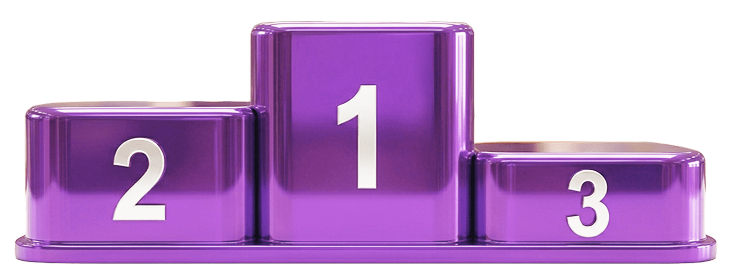
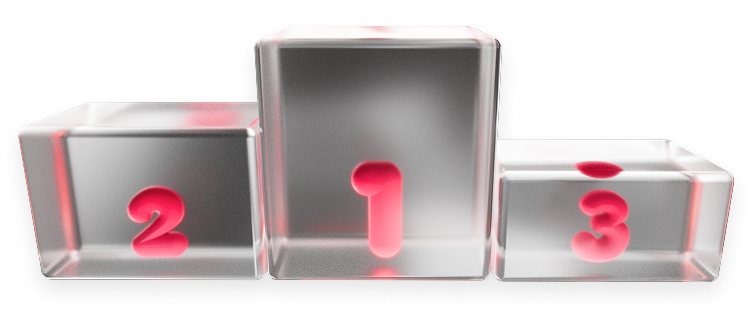
fix: ui bugs

diff --git a/src/views/home/HomeIndexView.vue b/src/views/home/HomeIndexView.vue
@@ -258,17 +258,20 @@ const noticeTrackStyle = computed<CSSProperties>(() => ({
   '--notice-distance': `${noticeDistancePx.value}px`,
   '--notice-duration': `${noticeDurationSec.value}s`,
 }))
-const clubNameText = computed(() => toSafeString(currentClub.value?.club_name) || '俱乐部')
+const clubNameText = computed(
+  () =>
+    toSafeString(currentClub.value?.club_name)
+      .replace(/[(（]\s*disband\s*[)）]?/gi, '')
+      .trim() || '俱乐部',
+)
 
 const clubGoldText = computed(() => toSafeNumber(currentClub.value?.user_gold) / 100)
 const pokerTablesText = computed(() => `${homeRoomStats.value.poker.tables}`)
 const pokerPlayersText = computed(() => `${homeRoomStats.value.poker.players}`)
 // const miniGamePlayersText = computed(() => `${homeRoomStats.value.miniGame.players}`)
-const miniGamePlayersText = 0
-// const mahjongTablesText = computed(() => `${homeRoomStats.value.mahjong.tables}`)
-const mahjongTablesText = 0
+const miniGamePlayersText = 632
 // const mahjongPlayersText = computed(() => `${homeRoomStats.value.mahjong.players}`)
-const mahjongPlayersText = 0
+const mahjongPlayersText = 788
 const mttTablesText = computed(() => `${homeRoomStats.value.mtt.tables}`)
 const mttPlayersText = computed(() => `${homeRoomStats.value.mtt.players}`)
 
@@ -729,8 +732,6 @@ onBeforeUnmount(() => {
           </div>
           <div class="zone-online-bar">
             <span class="online-text"> {{ t('UIClub_Mlist_zaixian') }} </span>
-            <img class="online-icon" src="@/assets/icons/game_zone_table_mini.png" alt="" />
-            <span class="online-num"> {{ mahjongTablesText }} </span>
             <img class="online-icon" src="@/assets/icons/game_zone_people_mini.png" alt="" />
             <span class="online-num"> {{ mahjongPlayersText }} </span>
           </div>
@@ -905,6 +906,12 @@ onBeforeUnmount(() => {
 .service-label {
   font-size: 0.3rem;
   color: #f9f9f9;
+  flex: 0 1 auto;
+  min-width: 0;
+  max-width: 4rem;
+  overflow: hidden;
+  text-overflow: ellipsis;
+  white-space: nowrap;
 }
 
 .club-balance-row {

diff --git a/src/views/guest/GuestHomeView.vue b/src/views/guest/GuestHomeView.vue
@@ -17,17 +17,22 @@ const userInfoStore = useUserInfoStore()
 const clubBannerUrl = useCachedImage(
   () => userInfoStore.channelDefaultClub?.banner || homeHeaderFallback,
 )
-const clubNameText = computed<string>(() => userInfoStore.channelDefaultClub?.club_name || '俱乐部')
+const clubNameText = computed<string>(
+  () =>
+    (userInfoStore.channelDefaultClub?.club_name || '')
+      .replace(/[(（]\s*disband\s*[)）]?/gi, '')
+      .trim() ||
+    '俱乐部',
+)
 const noticeText = '欢迎来到德州扑克，登录后体验更多精彩内容'
 const clubGoldText = '0.00'
 const balanceVisible = true
 const pokerTablesText = '0'
 const pokerPlayersText = '0'
-const miniGamePlayersText = 0
+const miniGamePlayersText = 632
 const mttTablesText = '0'
 const mttPlayersText = '0'
-const mahjongTablesText = '0'
-const mahjongPlayersText = '0'
+const mahjongPlayersText = '788'
 
 const activeBannerGames = [
   { name: 'PA真人', svg: imgPa },
@@ -224,8 +229,6 @@ onMounted(() => {
           </div>
           <div class="zone-online-bar">
             <span class="online-text"> {{ t('UIClub_Mlist_zaixian') }} </span>
-            <img class="online-icon" src="@/assets/icons/game_zone_table_mini.png" alt="" />
-            <span class="online-num"> {{ mahjongTablesText }} </span>
             <img class="online-icon" src="@/assets/icons/game_zone_people_mini.png" alt="" />
             <span class="online-num"> {{ mahjongPlayersText }} </span>
           </div>
@@ -442,6 +445,12 @@ onMounted(() => {
 .service-label {
   font-size: 0.3rem;
   color: #f9f9f9;
+  flex: 0 1 auto;
+  min-width: 0;
+  max-width: 4rem;
+  overflow: hidden;
+  text-overflow: ellipsis;
+  white-space: nowrap;
 }
 
 .club-balance-row {

diff --git a/src/views/club/ClubListView.vue b/src/views/club/ClubListView.vue
@@ -16,7 +16,7 @@ import imgClubRoleIcon from '@/assets/icons/member_icon.png'
 import imgQuickActionCreateShield from '@/assets/images/club_qa_create_club_shield.png'
 import imgQuickActionBoardChart from '@/assets/images/club_qa_data_board_chart.png'
 import imgQuickActionAlliance from '@/assets/images/club_qa_data_board_alliance.png'
-import iconBoxClubT from '@/assets/icons/icon_box_club_t.png'
+import iconClubCareer from '@/assets/icons/ic_club_q.png'
 import imgClubBannerFigma from '@/assets/images/club_banner_bg.png'
 import imgClubLogo from '@/assets/images/club_default_logo.png'
 import NumericKeypad from '@/components/KeyBoard/NumericKeypad.vue'
@@ -393,7 +393,7 @@ onMounted(() => {
             />
           </template>
           <template v-else-if="item.kind === 'club-career'">
-            <img class="icon-board-chart" :src="iconBoxClubT" width="61" height="61" alt="" />
+            <img class="qa-img icon-board-chart" :src="iconClubCareer" alt="" aria-hidden="true" />
           </template>
         </div>
         <span class="action-text" :class="`action-text--${item.kind}`">{{ item.title }}</span>
@@ -783,7 +783,8 @@ onMounted(() => {
   cursor: pointer;
 
   &--create-club,
-  &--club-panel {
+  &--club-panel,
+  &--club-career {
     width: 1.621rem;
   }
 
@@ -809,6 +810,11 @@ onMounted(() => {
   }
 
   &--club-panel {
+    width: 1.621rem;
+    height: 1.621rem;
+  }
+
+  &--club-career {
     width: 1.621rem;
     height: 1.621rem;
   }
@@ -843,6 +849,13 @@ onMounted(() => {
 }
 
 .qa-img--cu-alliance {
+  width: 100%;
+  height: 100%;
+  left: 0;
+  top: 0;
+  object-fit: contain;
+}
+.icon-board-chart {
   width: 100%;
   height: 100%;
   left: 0;

diff --git a/src/views/message/MessageDetailView.vue b/src/views/message/MessageDetailView.vue
@@ -17,7 +17,6 @@ import { t } from '@/i18n'
 import { formatDateTime } from '@/utils/time'
 import { resolveTemplateTextByKey } from '@/utils/multiLanguageTemplate'
 import avatarDefault from '@/assets/images/default_avatar.png'
-import clubRoleIcon from '@/assets/icons/club_role_icon.png'
 import iconPeople from '@/assets/icons/icon_people.png'
 import iconBalance from '@/assets/icons/icon_credit_chip.png'
 import HeaderBack from '@/components/HeaderBack/HeaderBack.vue'
@@ -976,10 +975,6 @@ onBeforeUnmount(() => {
                 {{ segment.text }}
               </span>
             </p>
-
-            <button v-if="item.senderIcon" class="sender-btn" type="button" aria-label="sender">
-              <img :src="clubRoleIcon" alt="sender" />
-            </button>
           </div>
 
           <div class="other-meta-row">
@@ -1302,28 +1297,6 @@ onBeforeUnmount(() => {
 
 .green {
   color: #05e7ae;
-}
-
-.sender-btn {
-  position: absolute;
-  right: 0.264rem;
-  top: 50%;
-  transform: translateY(-50%);
-  width: 0.88rem;
-  height: 0.88rem;
-  border: 0;
-  background: transparent;
-  padding: 0;
-  display: inline-flex;
-  align-items: center;
-  justify-content: center;
-
-  img {
-    width: 100%;
-    height: 100%;
-    border-radius: 50%;
-    object-fit: cover;
-  }
 }
 
 .other-meta-row {

diff --git a/src/views/mine/career/records/MineRecordDetailView.vue b/src/views/mine/career/records/MineRecordDetailView.vue
@@ -88,7 +88,7 @@ const summaryItems = ref([
   { label: '总流水', value: '0' },
   { label: '最大底池', value: '0' },
   { label: '总手数', value: '0' },
-  { label: '总代入数', value: '0' },
+  { label: '总带入数', value: '0' },
 ])
 
 const playerResults = ref<PlayerResult[]>([])
@@ -262,12 +262,12 @@ async function fetchRecordDetail(): Promise<void> {
       'DD/MM HH:mm',
     )}`
 
-    // 对齐客户端 UIRecordDetailStatistics.UpdateTexasInfo：总流水/最大底池/总手数/总代入数。
+    // 对齐客户端 UIRecordDetailStatistics.UpdateTexasInfo：总流水/最大底池/总手数/总带入数。
     summaryItems.value = [
       { label: '总流水', value: formatAmount(toSafeNumber(roomData?.all_bet_pot)) },
       { label: '最大底池', value: formatAmount(toSafeNumber(roomData?.max_bet_pot)) },
       { label: '总手数', value: String(toSafeNumber(roomData?.room_total_hand_num)) },
-      { label: '总代入数', value: formatAmount(toSafeNumber(roomData?.all_bring_in)) },
+      { label: '总带入数', value: formatAmount(toSafeNumber(roomData?.all_bring_in)) },
     ]
 
     podiumSeats.value = buildPodiumSeats(userList)
